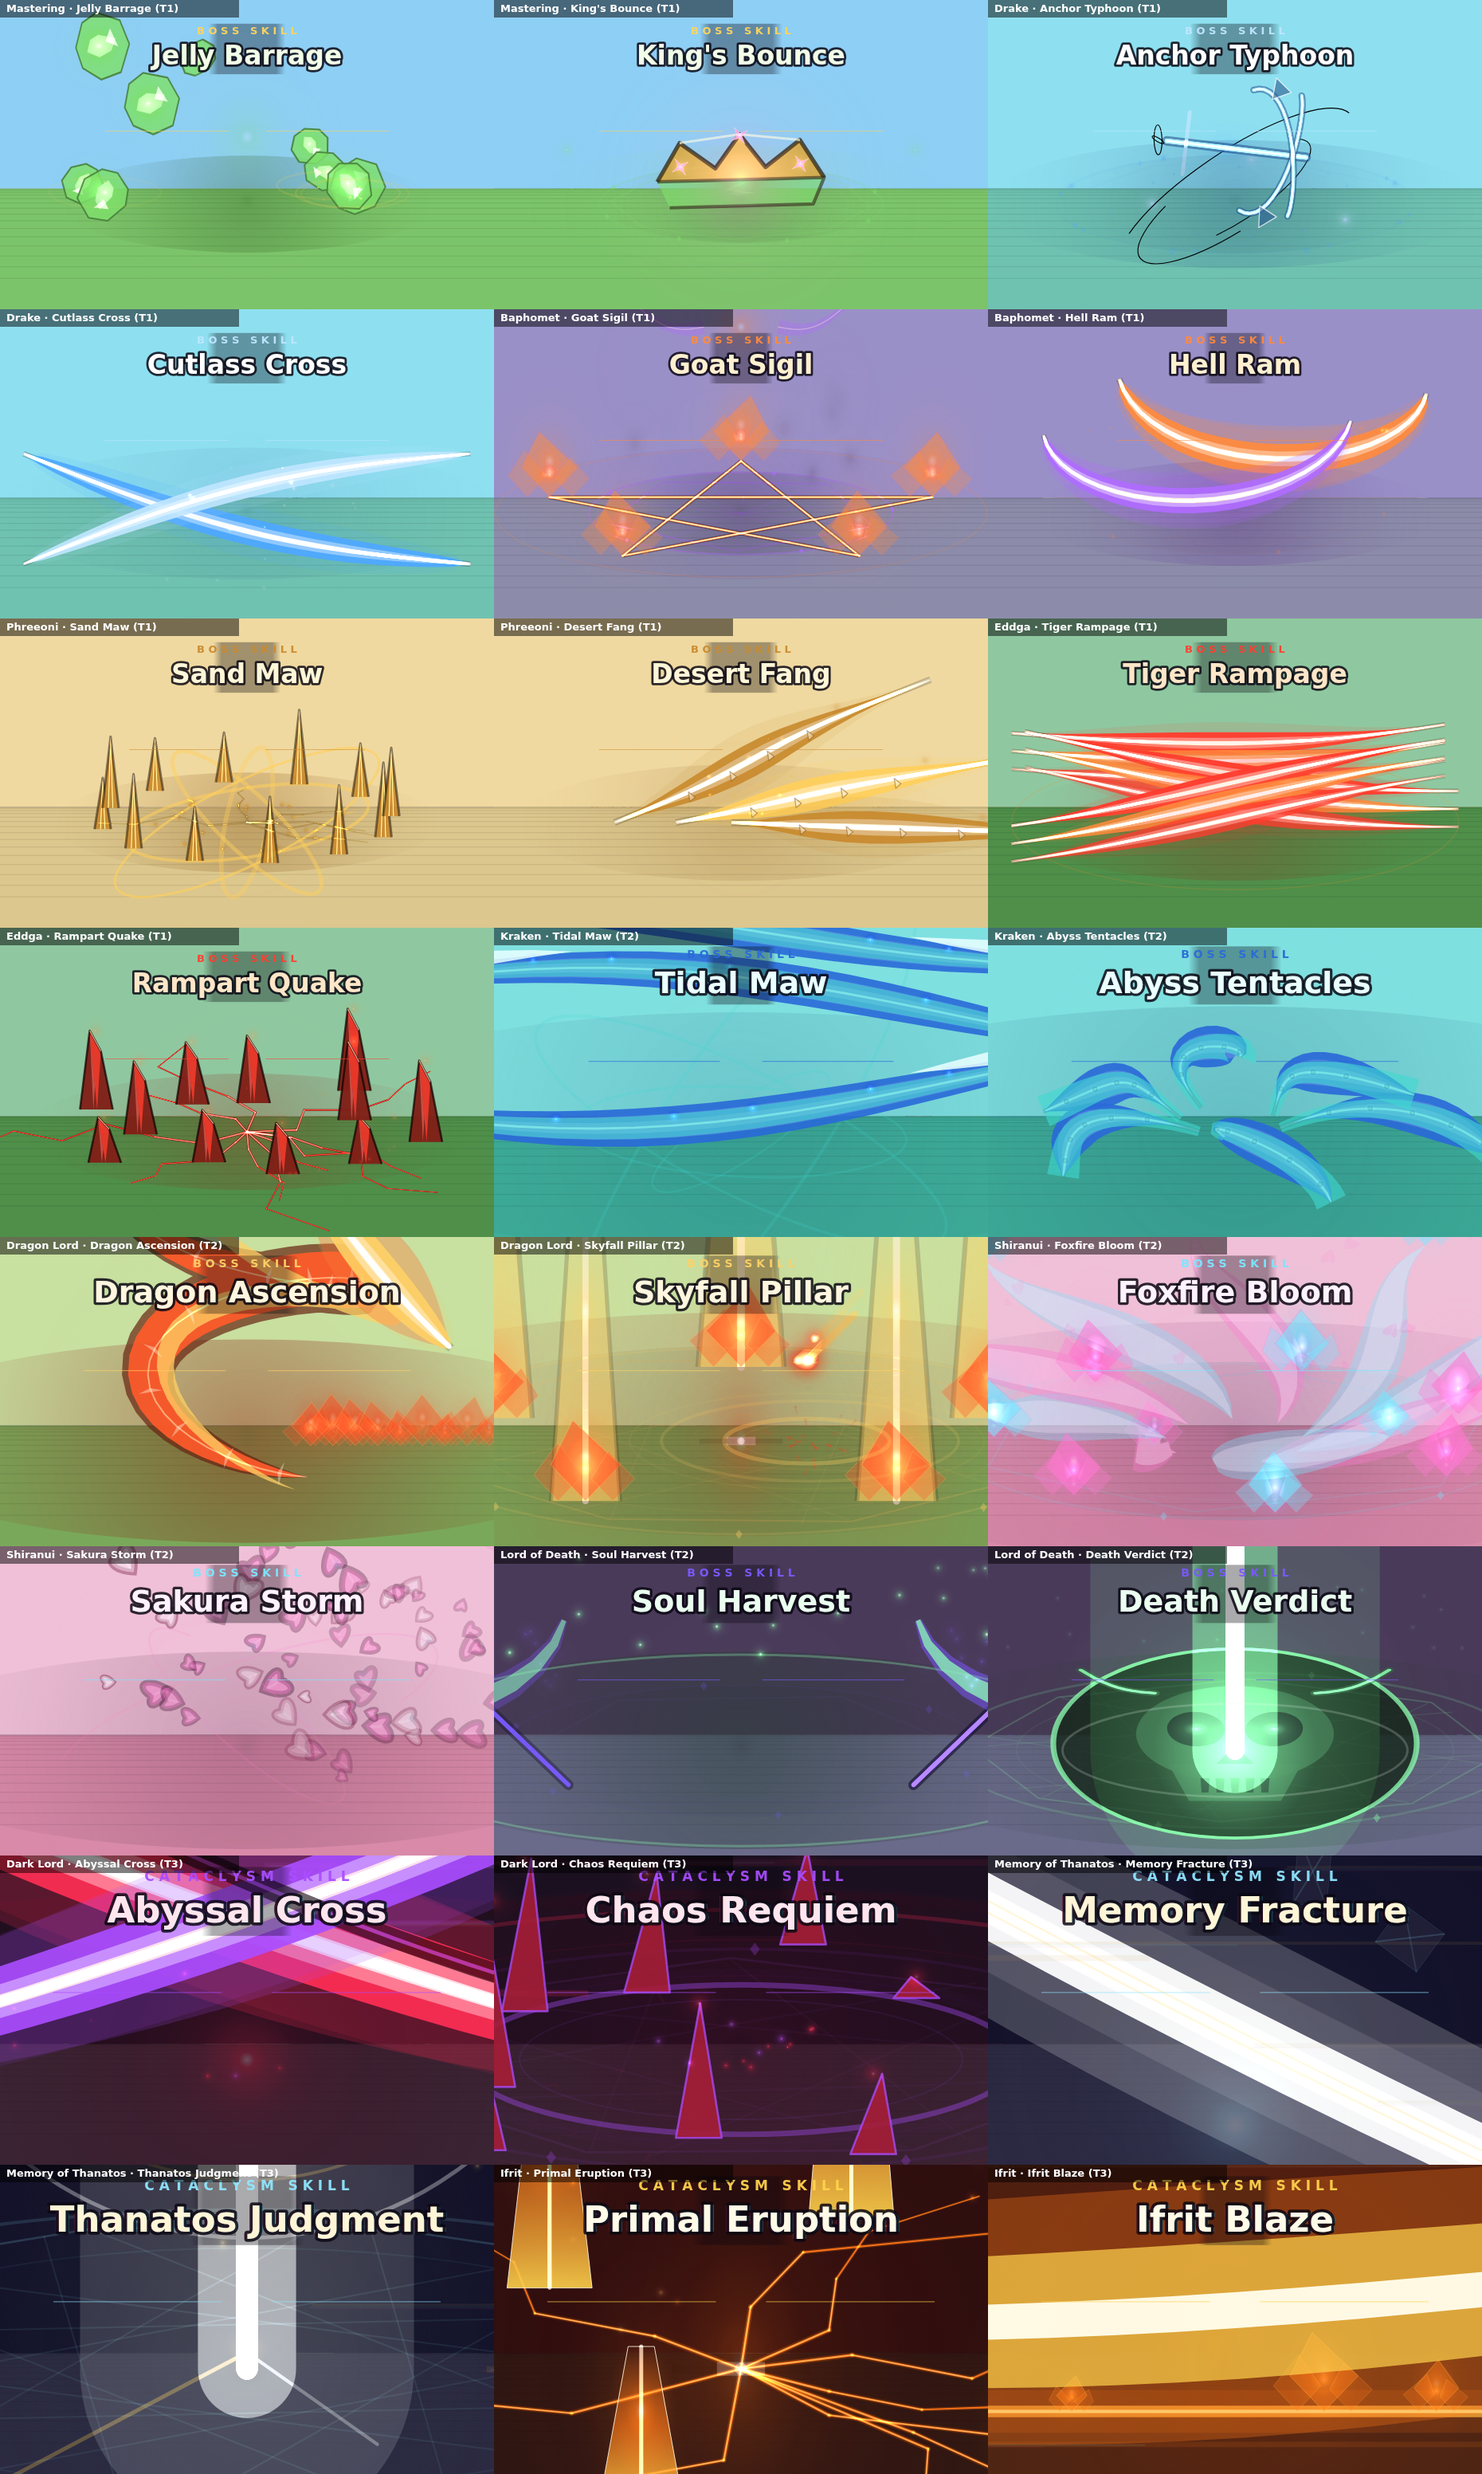
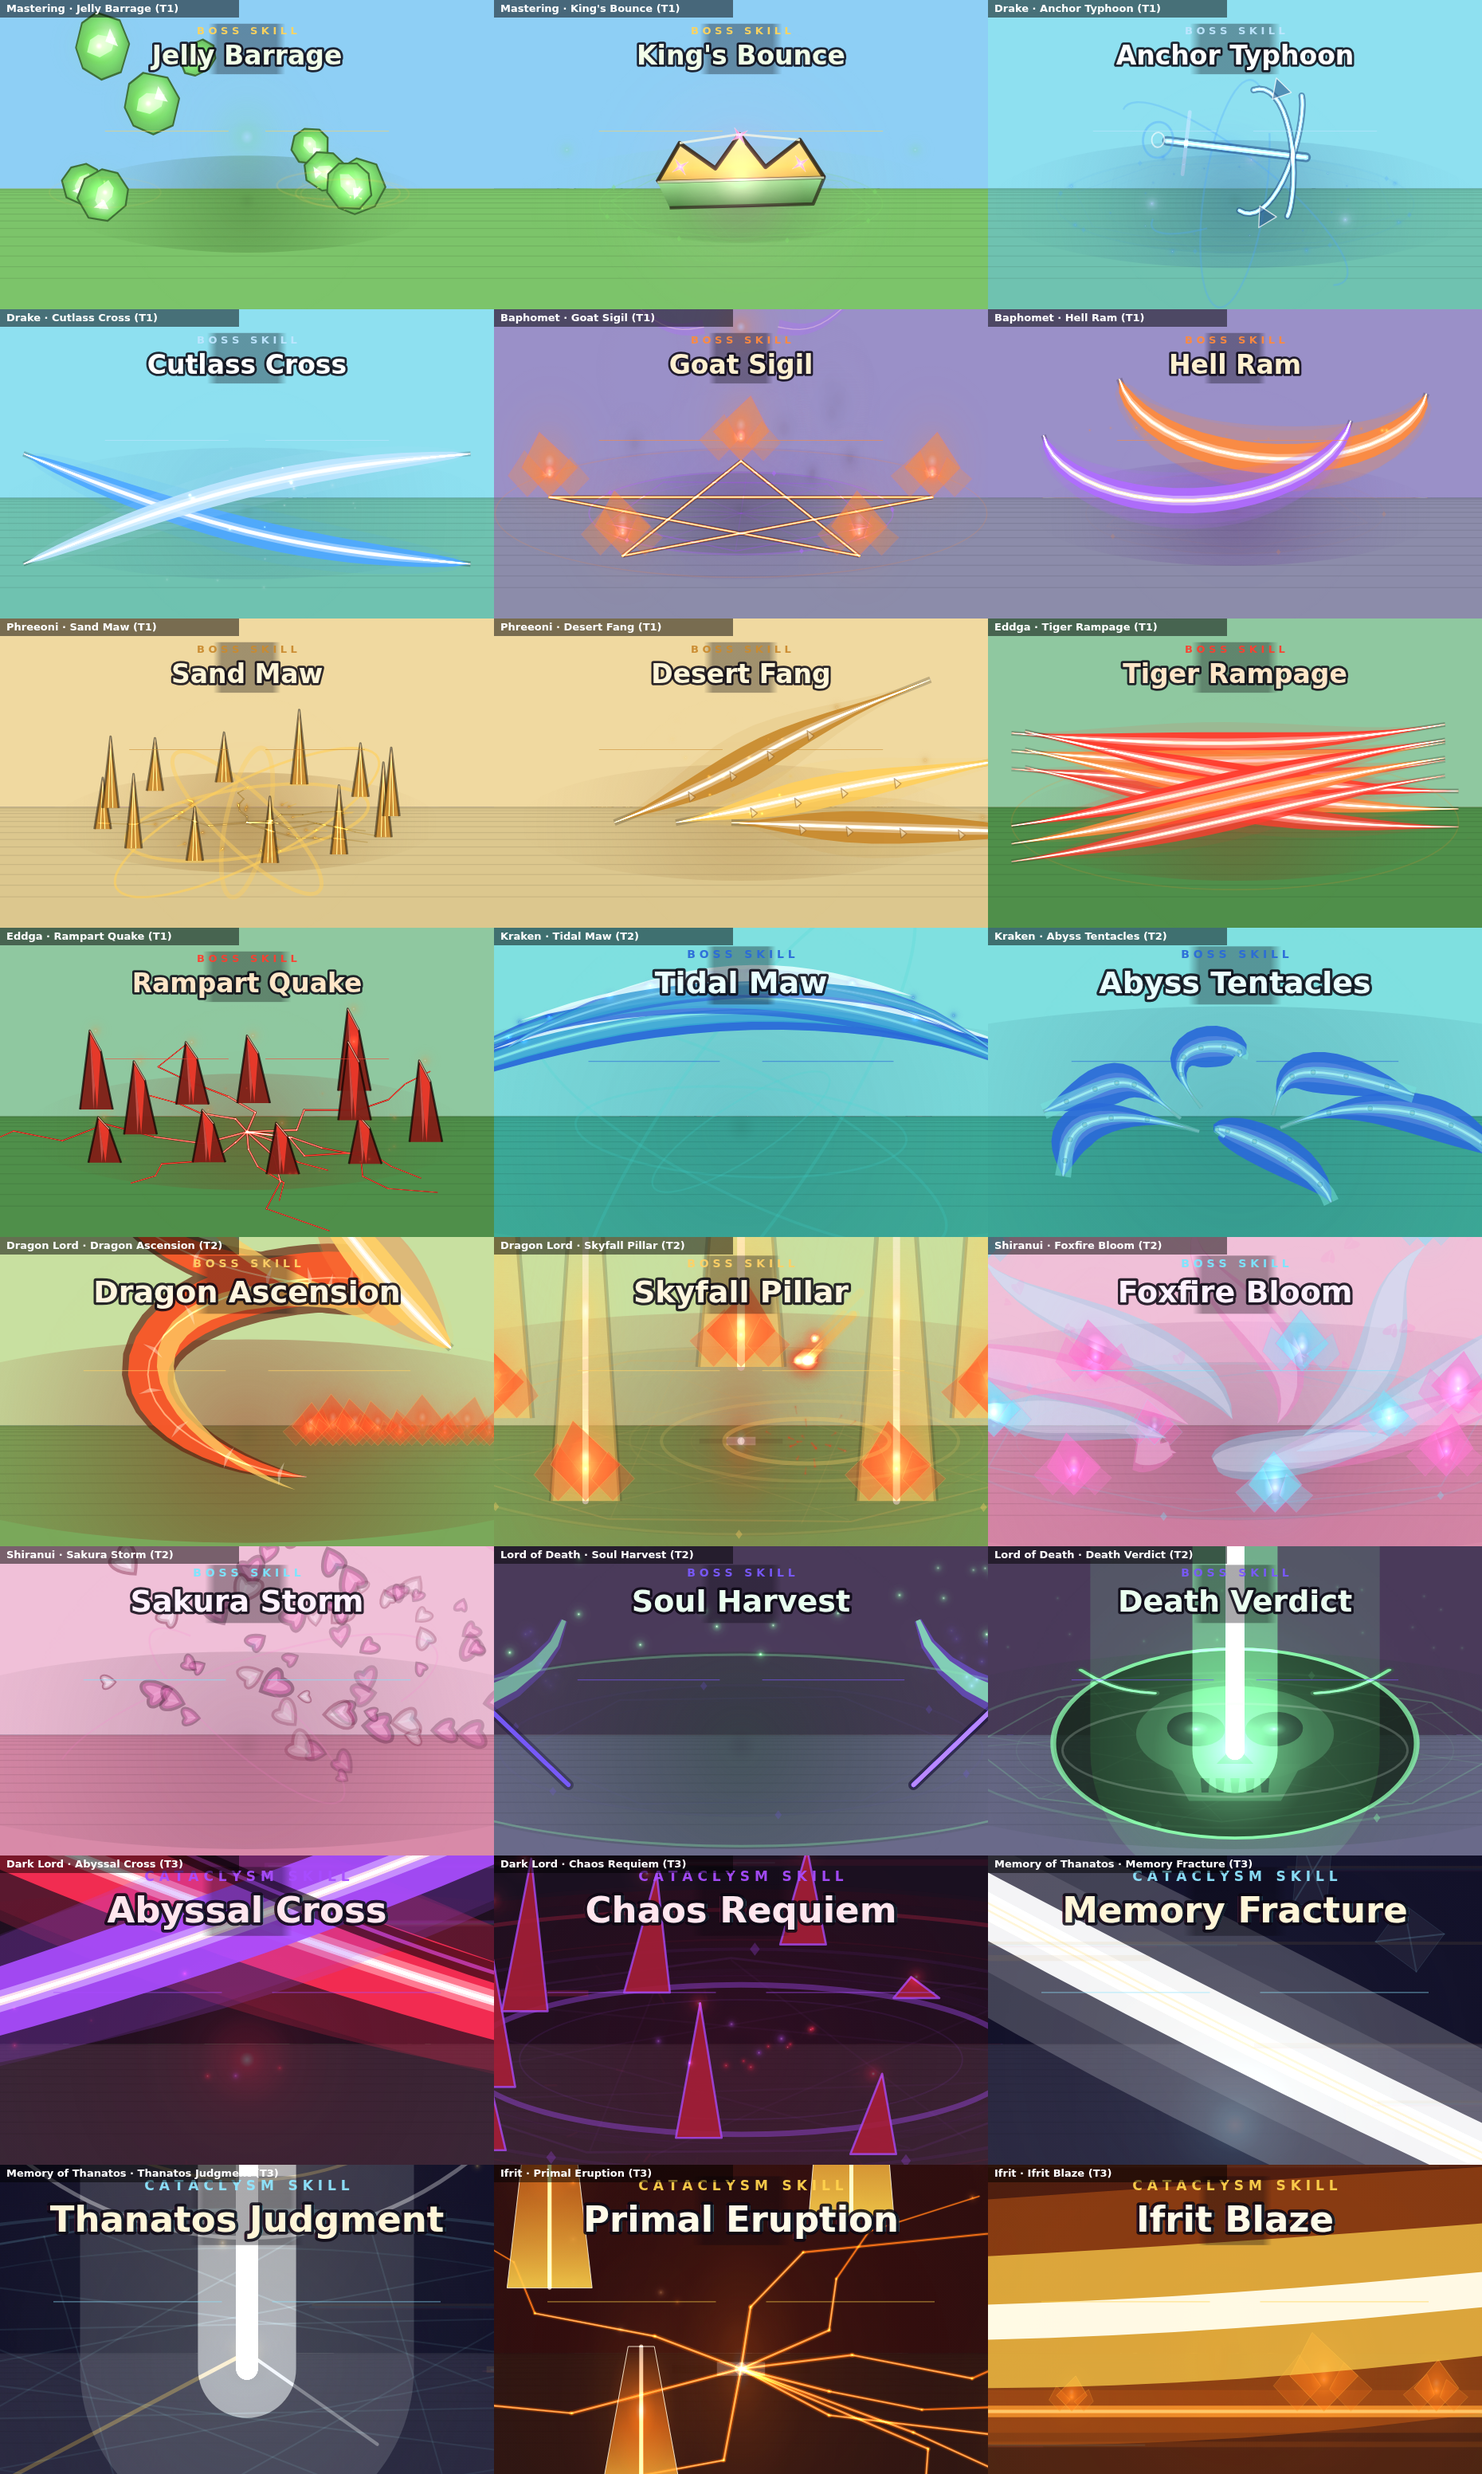
Boss FX: capped blade cores, lighter tier-3 ground, before/after receipt
- blade(): the light band and hot core are capped in absolute width, so a 2x
  tier-3 greatcut keeps a thin hot line instead of a 26px white stripe
  (Abyssal Cross and Memory Fracture read as flat strips before)
- Abyssal Cross floor tint 0.5 -> 0.32 so no dark smudge sits under the X
- Updates/boss-skill-fx/before-after-sakura-storm.png: previous module vs current
  at identical ages, over the real field capture

diff --git a/assets/boss-fx.js b/assets/boss-fx.js
@@ -218,9 +218,11 @@ const PGBossFx=(()=>{
         contour(pts,hex,Math.max(1.2,taper(.45,.6)*.42),a*.5);
         ribbon(pts,q=>taper(q,.55)*1.9,rgba(hex,a*.11));
         ribbon(pts,q=>taper(q,.55),rgba(hex,a*.97));
-        ribbon(pts,q=>taper(q,.66)*.5,rgba(lighten(hex,.42),a*.92));
-        ribbon(pts,q=>taper(q,.7)*.2,rgba(core,a));
-        hotEdge(pts,Math.max(.8,taper(.5,.62)*.26),a*.95,core);
+        // The light bands are capped in absolute width: on a 2x tier-3 greatcut an uncapped core
+        // became a 26px white stripe, which is what made those slashes look like flat strips.
+        ribbon(pts,q=>Math.min(taper(q,.66)*.5,6.5),rgba(lighten(hex,.42),a*.92));
+        ribbon(pts,q=>Math.min(taper(q,.7)*.2,2.6),rgba(core,a));
+        hotEdge(pts,Math.max(.8,Math.min(taper(.5,.62)*.26,2)),a*.95,core);
       }
       // A volumetric ribbon: contour, saturated body, offset specular and a fine core. Used where a
       // wave or a tentacle has to read as an object rather than a flat colour band.
@@ -982,7 +984,7 @@ const PGBossFx=(()=>{
       }
       P.abyssalCross=(s,t)=>{
         const [c1,c2,core,deep]=s.colors,a=1-cl((t/s.life-.88)/.12);
-        pool(400,deep,.5*a);
+        pool(400,deep,.32*a);
         glitch(0,-170,900,340,t,s.seed,c2,a*.85);
         const p1=out(cl(t/.3)),p2=out(cl((t-.12)/.3));
         // TWO crossing greatcut slashes: one descends left-to-right, the other mirrors it.

diff --git a/Updates/boss-skill-fx/README.md b/Updates/boss-skill-fx/README.md
@@ -9,6 +9,11 @@ This folder keeps the review material. The live effect system is `assets/boss-fx
 is `/bossfx` (`tools/boss_fx_preview.html`); `sheet-all-moves.png` is one representative frame of
 every move, rendered straight from the module by `tools/render_boss_fx_sheet.js`.
 
+`before-after-sakura-storm.png` is the receipt for the owner's report: the same move, same ages,
+rendered from the previous module on the top row and the current one below. The old version laid a
+flat tinted ellipse over the field, which is the hard-edged dark shape (with a visible rim) that
+appeared under the boss.
+
 The second, stricter review sheet is generated on demand instead of being committed (it is ~14 MB at
 full height): `node tools/render_boss_fx_field_sheet.js out.png` composites every move over the real
 Prontera field capture at true game scale, one row per move. Crispness and "does this leave a hard
